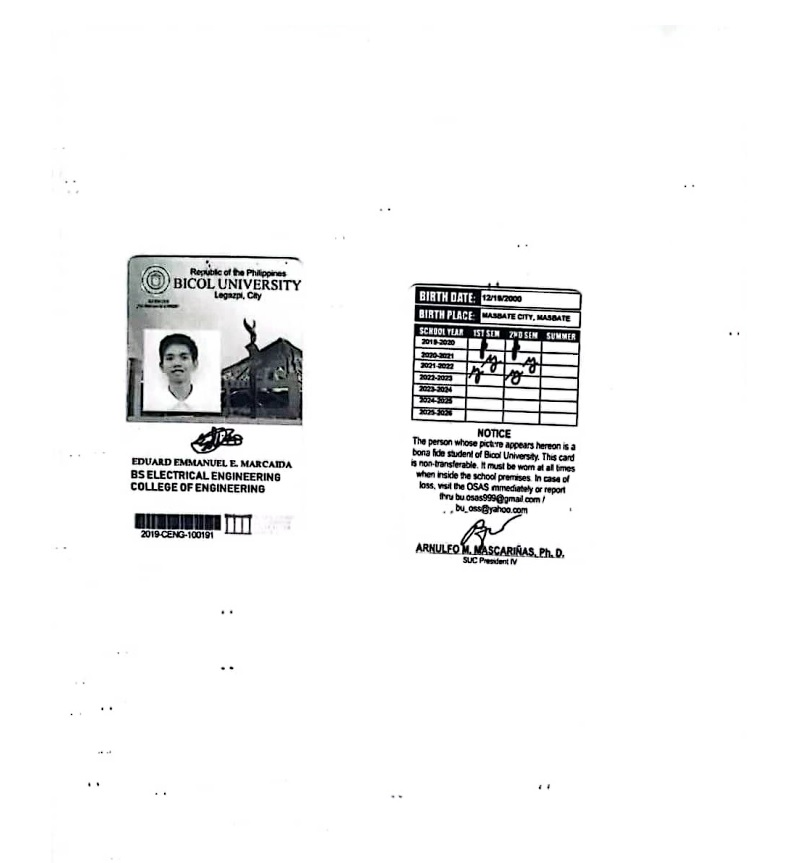
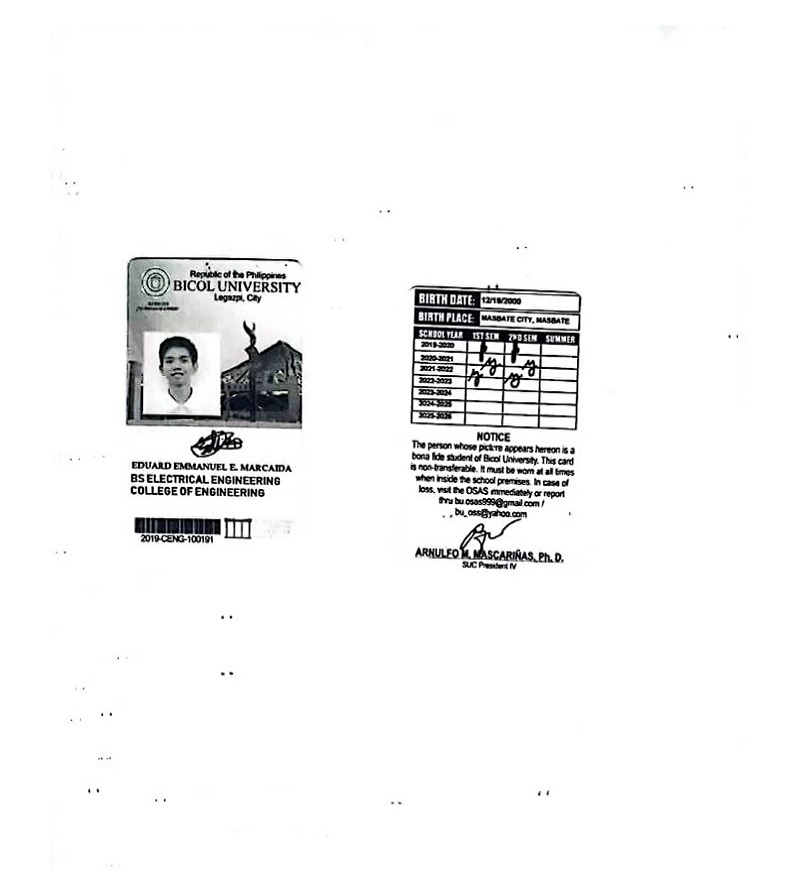
Update 20220624b
- QOW updates
- Updated images' resolution

diff --git a/index.html b/index.html
@@ -330,7 +330,7 @@
                                     </div>
                                     <div class="center-this-item">
                                         <p>"<b>I like guitars and computers 😇</b>"</p>
-                                        <p class="text-extra-letter-spacing">Hi! I am Eduard Emmanuel E. Marcaida, or "Eman" for short, and I am a third year student at Bicol University College of Engineering, belonging to the Electrical Engineering Department. My goal is to be a successful registered electrical engineer who can utilize knowledge and skills gained through hardships and trials as a student. I will use everything that I have learned to be competent, to be able to work with quality, to be able to work within the community, and to preserve the integrity and dignity of the electrical engineering profession.</p>
+                                        <p class="text-extra-letter-spacing center-but-justified">Hi! I am Eduard Emmanuel E. Marcaida, or "Eman" for short, and I am a third year student at Bicol University College of Engineering, belonging to the Electrical Engineering Department. My goal is to be a successful registered electrical engineer who can utilize knowledge and skills gained through hardships and trials as a student. I will use everything that I have learned to be competent, to be able to work with quality, to be able to work within the community, and to preserve the integrity and dignity of the electrical engineering profession.</p>
                                     </div>
                                 </div>
                                 <br>

diff --git a/internship-preliminaries.html b/internship-preliminaries.html
@@ -380,7 +380,7 @@
                                     </tr>
                                     <tr>
                                         <th>Travel Order</th>
-                                        <td class="text-right text-danger"><i class="fas fa-times"></i></td>
+                                        <td class="text-right text-danger"><i class="fas fa-hourglass-half"></i></td>
                                         <td class="text-right"><i style="cursor: not-allowed;" class="text-danger fas fa-eye-slash"></i></td>
                                     </tr>
                                 </tbody>

diff --git a/css/style.css b/css/style.css
@@ -29,3 +29,8 @@
 .disabled-click {
     pointer-events: none !important;
 }
+
+.center-but-justified {
+    text-align: justify;
+    text-align-last: center;
+}
